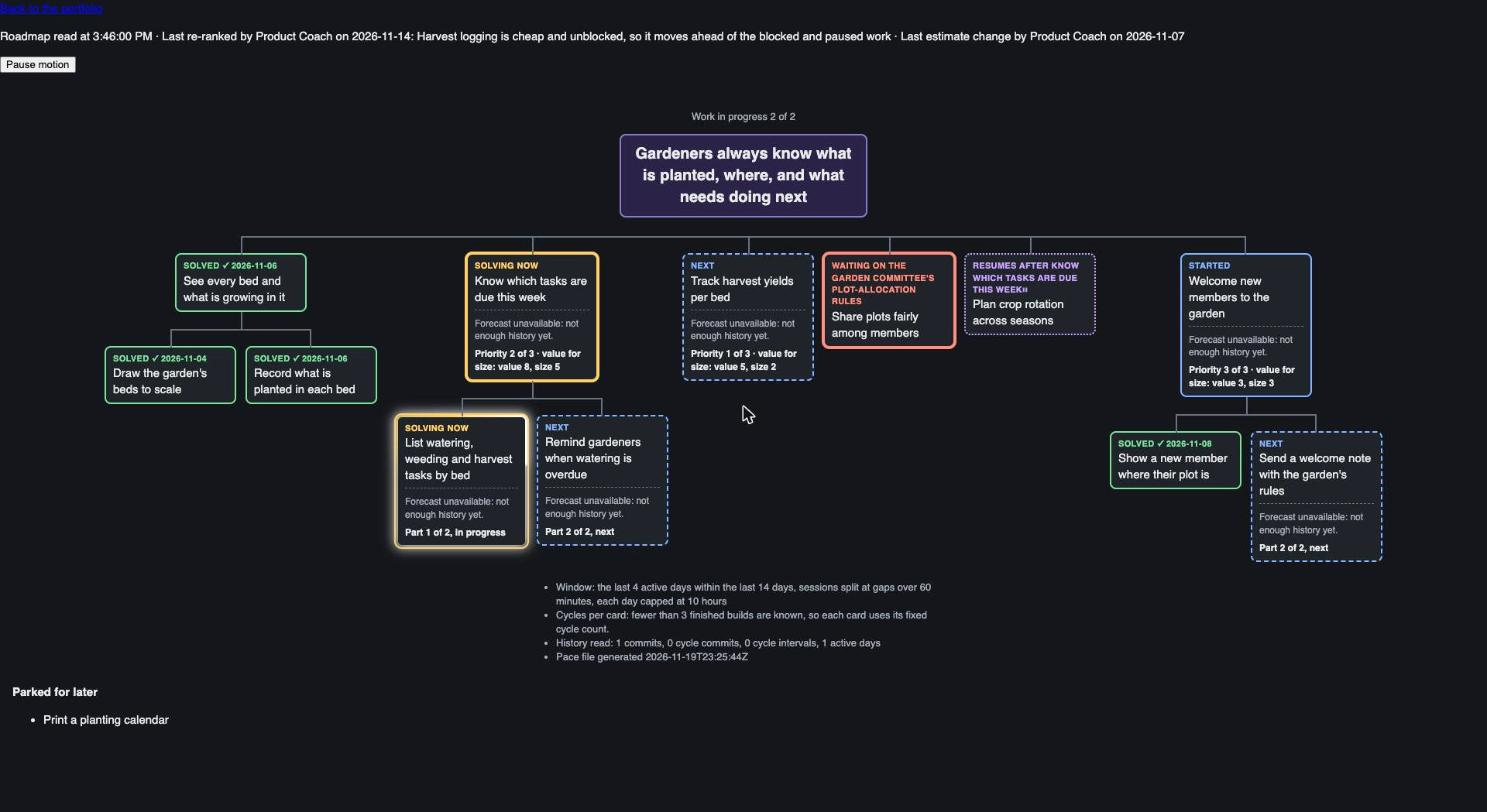
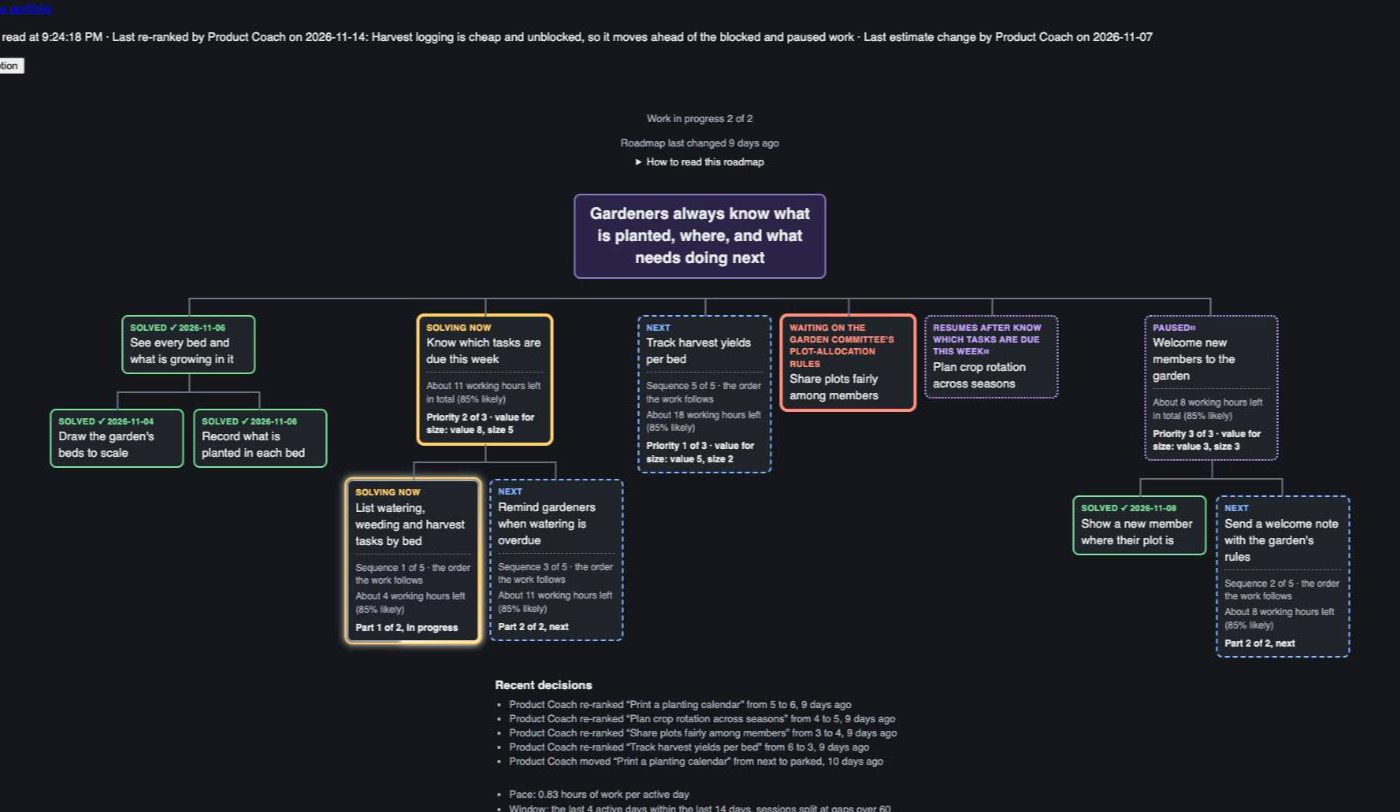
README: a fresh screenshot and an animation of the page redrawing during the replay

Changed region(s): [[0.0307, 0.1232, 0.9829, 1.0], [0.0, 0.0, 0.8293, 0.0924], [0.0, 0.8313, 0.1229, 0.8929]]

diff --git a/README.md b/README.md
@@ -6,6 +6,10 @@ A small sample of code built by AI agents under the ClickChain governance model.
 
 ![The discovery tree for the sample Community Garden Planner roadmap](docs/screenshot.jpg)
 
+![The sample roadmap changing as the replay script steps through six made-up decisions: cards move to solving now, parts are solved, a re-rank, and the Recent decisions list fills in](docs/replay.gif)
+
+*The animation is the real page, redrawing itself while `scripts/replay.mjs` changes a copy of the sample data (see [Watch it change](#watch-it-change)).*
+
 A roadmap viewer that shows a product's work as a discovery tree: the goal at the root, the user
 problems beneath it, and the parts of each problem beneath that. Each card shows its status
 (now, next, blocked, paused, parked, done) and its value and size estimate. A decision log
